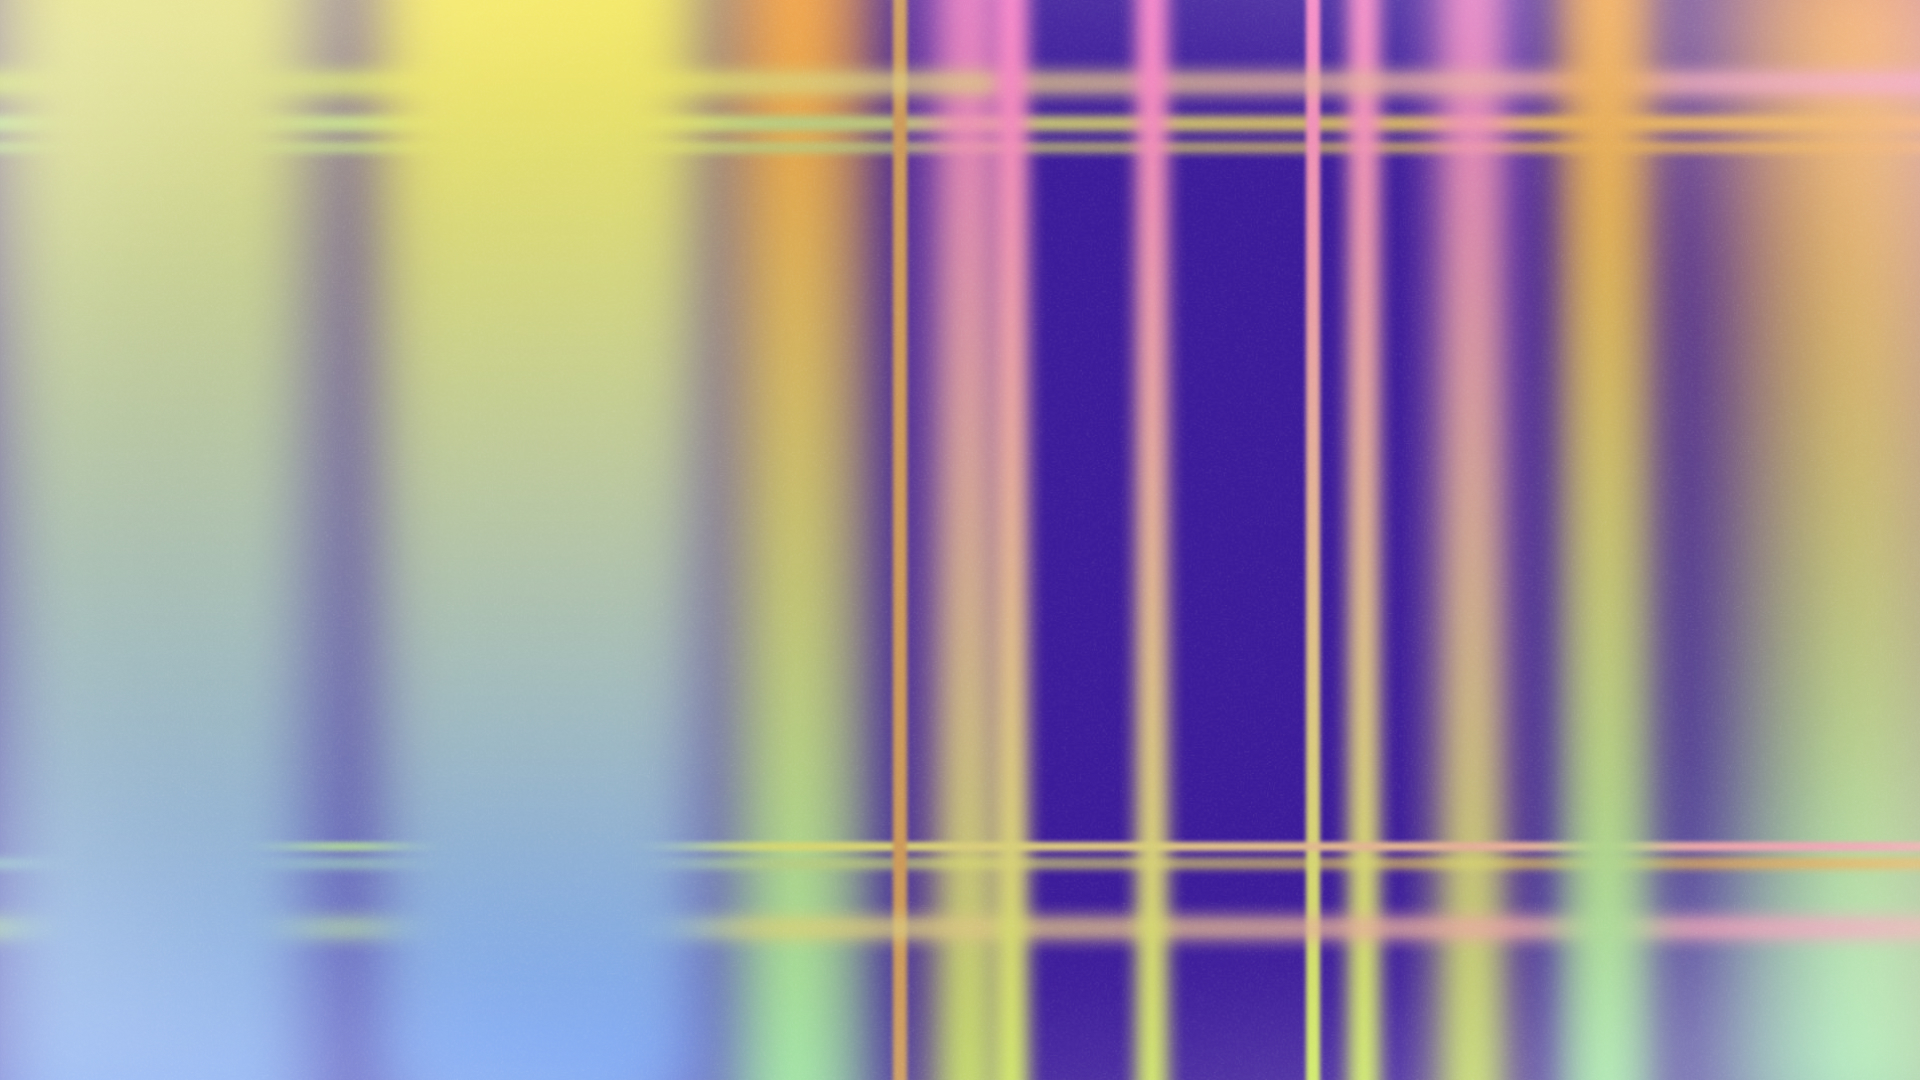
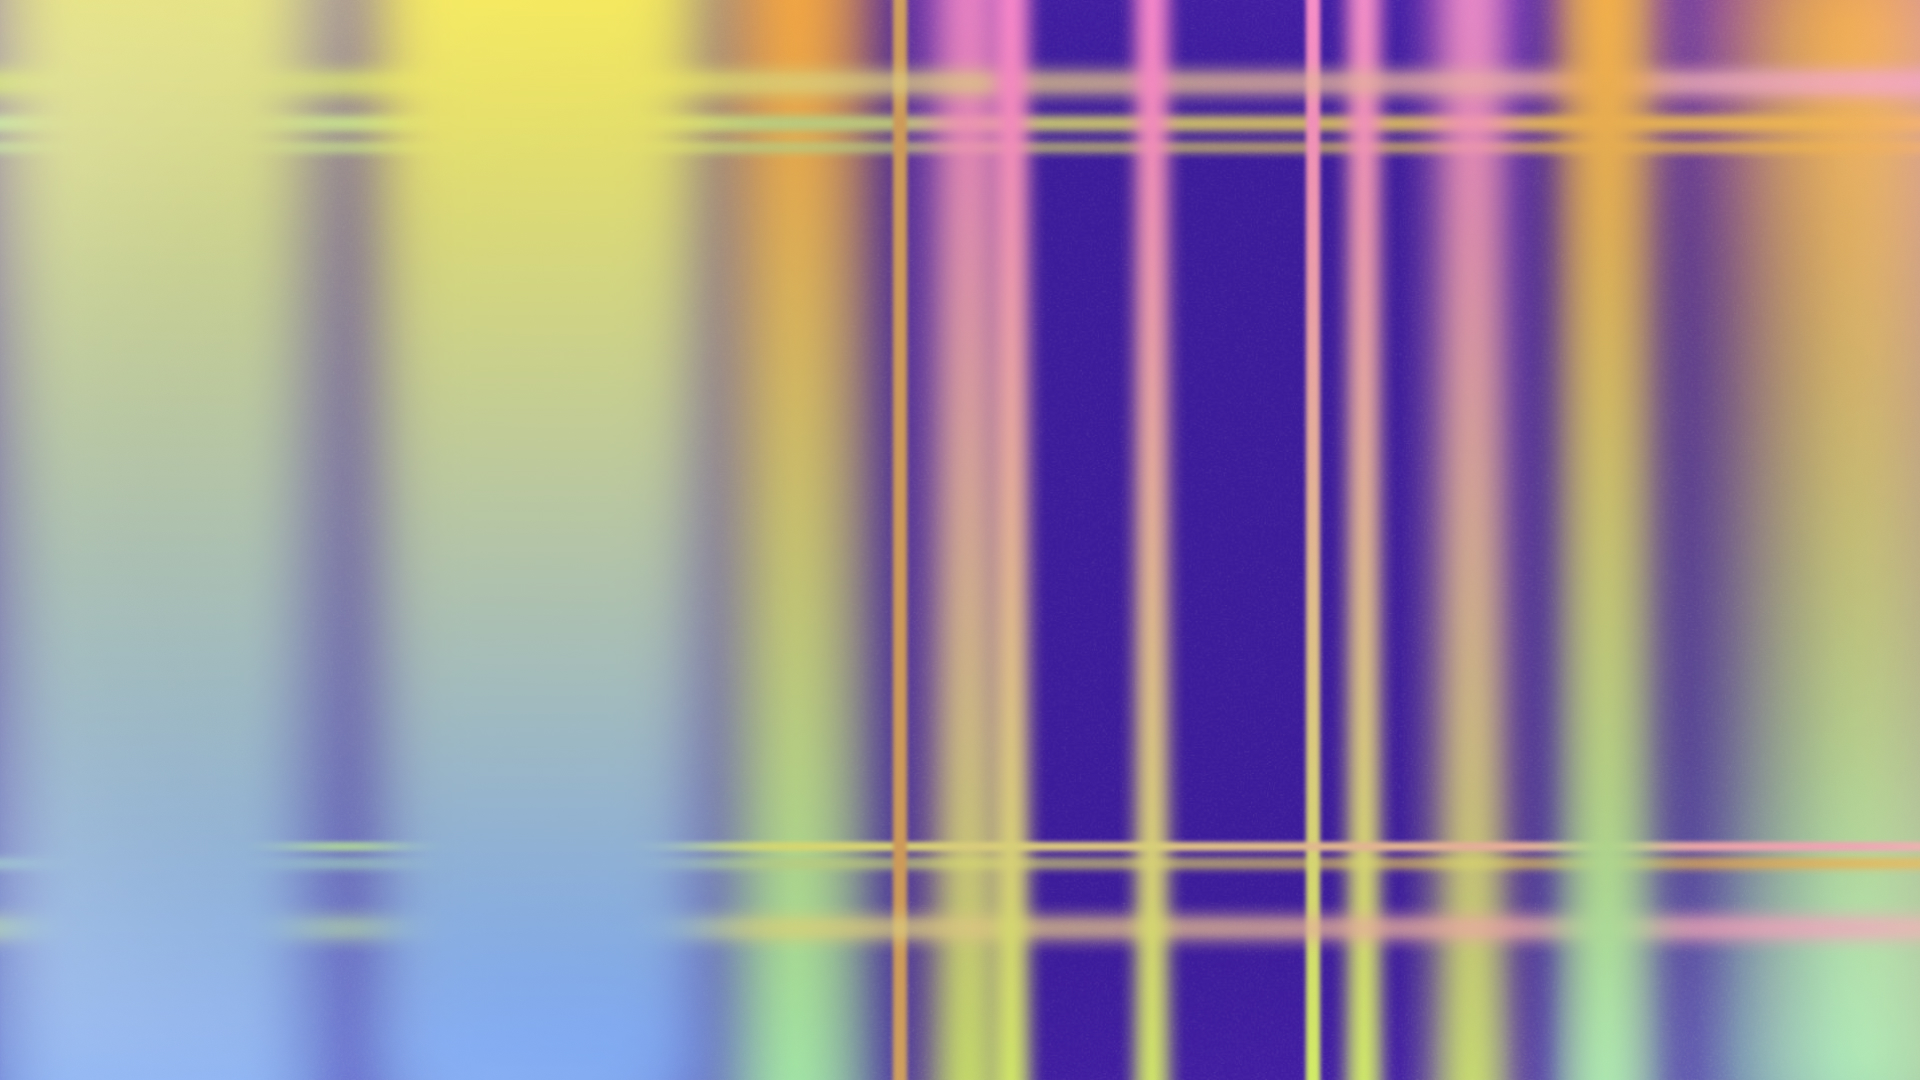
add background image to ch4

diff --git a/components/ChapterWrapperFuture.vue b/components/ChapterWrapperFuture.vue
@@ -62,7 +62,7 @@ export default {
   justify-content: center;
   align-items: center;
   background-size: cover;
-  background-image: url('@/static/image/chapter_intro_background.jpg');
+  background-image: url('@/static/image/future_chapter_background.jpg');
 
   .wrapper {
     display: flex;
